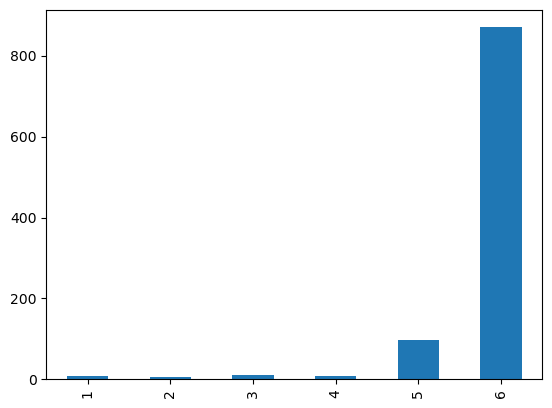
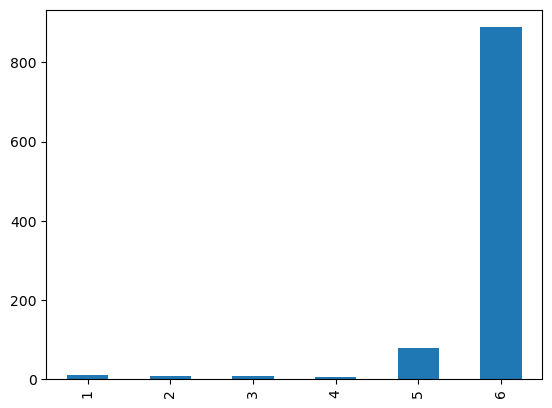
Removed .py file from book

diff --git a/docs/notebooks/M07_PythonClasses/M07-02-ClassesExample.html b/docs/notebooks/M07_PythonClasses/M07-02-ClassesExample.html
@@ -669,7 +669,7 @@ code span.wa { color: #60a0b0; font-weight: bold; font-style: italic; } /* Warni
 <p>Here’s an example of a class motivated by our earlier observation that functions come in groups.</p>
 <section id="set-up" class="level2">
 <h2 class="anchored" data-anchor-id="set-up">Set Up</h2>
-<div class="cell" data-tags="[]" data-execution_count="1">
+<div class="cell" data-tags="[]" data-execution_count="3">
 <div class="sourceCode cell-code" id="cb1"><pre class="sourceCode python code-with-copy"><code class="sourceCode python"><span id="cb1-1"><a href="#cb1-1" aria-hidden="true" tabindex="-1"></a><span class="im">import</span> pandas <span class="im">as</span> pd</span>
 <span id="cb1-2"><a href="#cb1-2" aria-hidden="true" tabindex="-1"></a><span class="im">import</span> numpy <span class="im">as</span> np</span></code><button title="Copy to Clipboard" class="code-copy-button"><i class="bi"></i></button></pre></div>
 </div>
@@ -679,7 +679,7 @@ code span.wa { color: #60a0b0; font-weight: bold; font-style: italic; } /* Warni
 <p>We define a set of functions that work in a sequence, where the return value of one is the argument of the other.</p>
 <section id="define-functions" class="level3">
 <h3 class="anchored" data-anchor-id="define-functions">Define Functions</h3>
-<div class="cell" data-tags="[]" data-execution_count="2">
+<div class="cell" data-tags="[]" data-execution_count="4">
 <div class="sourceCode cell-code" id="cb2"><pre class="sourceCode python code-with-copy"><code class="sourceCode python"><span id="cb2-1"><a href="#cb2-1" aria-hidden="true" tabindex="-1"></a><span class="kw">def</span> create_die(weights):</span>
 <span id="cb2-2"><a href="#cb2-2" aria-hidden="true" tabindex="-1"></a>    n_sides <span class="op">=</span> <span class="bu">len</span>(weights)</span>
 <span id="cb2-3"><a href="#cb2-3" aria-hidden="true" tabindex="-1"></a>    my_probs <span class="op">=</span> [i<span class="op">/</span><span class="bu">sum</span>(weights) <span class="cf">for</span> i <span class="kw">in</span> weights]</span>
@@ -702,15 +702,15 @@ code span.wa { color: #60a0b0; font-weight: bold; font-style: italic; } /* Warni
 </section>
 <section id="create-instances" class="level3">
 <h3 class="anchored" data-anchor-id="create-instances">Create Instances</h3>
-<div class="cell" data-execution_count="3">
+<div class="cell" data-execution_count="5">
 <div class="sourceCode cell-code" id="cb3"><pre class="sourceCode python code-with-copy"><code class="sourceCode python"><span id="cb3-1"><a href="#cb3-1" aria-hidden="true" tabindex="-1"></a>n_rolls <span class="op">=</span> <span class="dv">10</span></span></code><button title="Copy to Clipboard" class="code-copy-button"><i class="bi"></i></button></pre></div>
 </div>
-<div class="cell" data-execution_count="4">
+<div class="cell" data-execution_count="6">
 <div class="sourceCode cell-code" id="cb4"><pre class="sourceCode python code-with-copy"><code class="sourceCode python"><span id="cb4-1"><a href="#cb4-1" aria-hidden="true" tabindex="-1"></a>fair_die <span class="op">=</span> create_die([<span class="dv">1</span>,<span class="dv">1</span>,<span class="dv">1</span>,<span class="dv">1</span>,<span class="dv">1</span>,<span class="dv">1</span>,<span class="dv">1</span>])</span></code><button title="Copy to Clipboard" class="code-copy-button"><i class="bi"></i></button></pre></div>
 </div>
-<div class="cell" data-tags="[]" data-execution_count="5">
+<div class="cell" data-tags="[]" data-execution_count="7">
 <div class="sourceCode cell-code" id="cb5"><pre class="sourceCode python code-with-copy"><code class="sourceCode python"><span id="cb5-1"><a href="#cb5-1" aria-hidden="true" tabindex="-1"></a>fair_die</span></code><button title="Copy to Clipboard" class="code-copy-button"><i class="bi"></i></button></pre></div>
-<div class="cell-output cell-output-display" data-execution_count="5">
+<div class="cell-output cell-output-display" data-execution_count="7">
 
 <div>
 
@@ -763,32 +763,32 @@ code span.wa { color: #60a0b0; font-weight: bold; font-style: italic; } /* Warni
 </div>
 </div>
 </div>
-<div class="cell" data-execution_count="6">
+<div class="cell" data-execution_count="8">
 <div class="sourceCode cell-code" id="cb6"><pre class="sourceCode python code-with-copy"><code class="sourceCode python"><span id="cb6-1"><a href="#cb6-1" aria-hidden="true" tabindex="-1"></a>fair_results <span class="op">=</span> roll_dice(fair_die, n_rolls)</span></code><button title="Copy to Clipboard" class="code-copy-button"><i class="bi"></i></button></pre></div>
 </div>
-<div class="cell" data-execution_count="7">
+<div class="cell" data-execution_count="9">
 <div class="sourceCode cell-code" id="cb7"><pre class="sourceCode python code-with-copy"><code class="sourceCode python"><span id="cb7-1"><a href="#cb7-1" aria-hidden="true" tabindex="-1"></a>fair_results</span></code><button title="Copy to Clipboard" class="code-copy-button"><i class="bi"></i></button></pre></div>
-<div class="cell-output cell-output-display" data-execution_count="7">
-<pre><code>0    3
-1    5
-2    6
-3    3
-4    6
-5    3
-6    3
-7    7
-8    1
-9    5
+<div class="cell-output cell-output-display" data-execution_count="9">
+<pre><code>0    4
+1    1
+2    2
+3    6
+4    4
+5    6
+6    2
+7    2
+8    5
+9    2
 dtype: int64</code></pre>
 </div>
 </div>
-<div class="cell" data-execution_count="8">
+<div class="cell" data-execution_count="10">
 <div class="sourceCode cell-code" id="cb9"><pre class="sourceCode python code-with-copy"><code class="sourceCode python"><span id="cb9-1"><a href="#cb9-1" aria-hidden="true" tabindex="-1"></a>plot_results(fair_results)</span></code><button title="Copy to Clipboard" class="code-copy-button"><i class="bi"></i></button></pre></div>
 <div class="cell-output cell-output-display">
 <p><img src="M07-02-ClassesExample_files/figure-html/cell-9-output-1.png" class="img-fluid"></p>
 </div>
 </div>
-<div class="cell" data-execution_count="9">
+<div class="cell" data-execution_count="11">
 <div class="sourceCode cell-code" id="cb10"><pre class="sourceCode python code-with-copy"><code class="sourceCode python"><span id="cb10-1"><a href="#cb10-1" aria-hidden="true" tabindex="-1"></a>unfair_die <span class="op">=</span> create_die([<span class="dv">1</span>,<span class="dv">1</span>,<span class="dv">1</span>,<span class="dv">1</span>,<span class="dv">1</span>,<span class="dv">5</span>])</span>
 <span id="cb10-2"><a href="#cb10-2" aria-hidden="true" tabindex="-1"></a>unfair_results <span class="op">=</span> roll_dice(unfair_die, n_rolls)</span>
 <span id="cb10-3"><a href="#cb10-3" aria-hidden="true" tabindex="-1"></a>plot_results(unfair_results)</span></code><button title="Copy to Clipboard" class="code-copy-button"><i class="bi"></i></button></pre></div>
@@ -799,11 +799,11 @@ dtype: int64</code></pre>
 </section>
 <section id="doing-it-all-at-once" class="level3">
 <h3 class="anchored" data-anchor-id="doing-it-all-at-once">Doing it all at once</h3>
-<div class="cell" data-execution_count="10">
+<div class="cell" data-execution_count="12">
 <div class="sourceCode cell-code" id="cb11"><pre class="sourceCode python code-with-copy"><code class="sourceCode python"><span id="cb11-1"><a href="#cb11-1" aria-hidden="true" tabindex="-1"></a><span class="kw">def</span> do_it_all(weights):</span>
 <span id="cb11-2"><a href="#cb11-2" aria-hidden="true" tabindex="-1"></a>    plot_results(roll_dice(create_die(weights), n_rolls))</span></code><button title="Copy to Clipboard" class="code-copy-button"><i class="bi"></i></button></pre></div>
 </div>
-<div class="cell" data-execution_count="11">
+<div class="cell" data-execution_count="13">
 <div class="sourceCode cell-code" id="cb12"><pre class="sourceCode python code-with-copy"><code class="sourceCode python"><span id="cb12-1"><a href="#cb12-1" aria-hidden="true" tabindex="-1"></a>do_it_all(roll_dice(create_die([<span class="dv">1</span>,<span class="dv">1</span>,<span class="dv">1</span>,<span class="dv">1</span>,<span class="dv">1</span>,<span class="dv">10</span>]), n_rolls))</span></code><button title="Copy to Clipboard" class="code-copy-button"><i class="bi"></i></button></pre></div>
 <div class="cell-output cell-output-display">
 <p><img src="M07-02-ClassesExample_files/figure-html/cell-12-output-1.png" class="img-fluid"></p>
@@ -817,14 +817,14 @@ dtype: int64</code></pre>
 <h3 class="anchored" data-anchor-id="define-a-shared-data-structure">Define a Shared Data Structure</h3>
 <p>We create a dictionary called <code>config</code> to store our instance data.</p>
 <p>We’ll treat this as a <strong>global</strong>.</p>
-<div class="cell" data-execution_count="12">
+<div class="cell" data-execution_count="14">
 <div class="sourceCode cell-code" id="cb13"><pre class="sourceCode python code-with-copy"><code class="sourceCode python"><span id="cb13-1"><a href="#cb13-1" aria-hidden="true" tabindex="-1"></a>config <span class="op">=</span> {}</span>
 <span id="cb13-2"><a href="#cb13-2" aria-hidden="true" tabindex="-1"></a>n_rolls2 <span class="op">=</span> <span class="dv">10</span></span></code><button title="Copy to Clipboard" class="code-copy-button"><i class="bi"></i></button></pre></div>
 </div>
 </section>
 <section id="define-methods" class="level3">
 <h3 class="anchored" data-anchor-id="define-methods">Define Methods</h3>
-<div class="cell" data-execution_count="13">
+<div class="cell" data-execution_count="15">
 <div class="sourceCode cell-code" id="cb14"><pre class="sourceCode python code-with-copy"><code class="sourceCode python"><span id="cb14-1"><a href="#cb14-1" aria-hidden="true" tabindex="-1"></a><span class="kw">def</span> create_die2(die_id):</span>
 <span id="cb14-2"><a href="#cb14-2" aria-hidden="true" tabindex="-1"></a>    <span class="kw">global</span> config</span>
 <span id="cb14-3"><a href="#cb14-3" aria-hidden="true" tabindex="-1"></a>    config[die_id][<span class="st">'die'</span>] <span class="op">=</span> <span class="va">None</span></span>
@@ -866,7 +866,7 @@ dtype: int64</code></pre>
 <section id="populate-config" class="level3">
 <h3 class="anchored" data-anchor-id="populate-config">Populate Config</h3>
 <p>We populate our configuration config with some instances.</p>
-<div class="cell" data-execution_count="14">
+<div class="cell" data-execution_count="16">
 <div class="sourceCode cell-code" id="cb15"><pre class="sourceCode python code-with-copy"><code class="sourceCode python"><span id="cb15-1"><a href="#cb15-1" aria-hidden="true" tabindex="-1"></a>config <span class="op">=</span> {</span>
 <span id="cb15-2"><a href="#cb15-2" aria-hidden="true" tabindex="-1"></a>    <span class="st">'fair'</span>: {</span>
 <span id="cb15-3"><a href="#cb15-3" aria-hidden="true" tabindex="-1"></a>        <span class="st">'weights'</span>: [<span class="dv">1</span>,<span class="dv">1</span>,<span class="dv">1</span>,<span class="dv">1</span>,<span class="dv">1</span>,<span class="dv">1</span>]</span>
@@ -879,7 +879,7 @@ dtype: int64</code></pre>
 </section>
 <section id="call-main-function" class="level3">
 <h3 class="anchored" data-anchor-id="call-main-function">Call Main Function</h3>
-<div class="cell" data-execution_count="15">
+<div class="cell" data-execution_count="17">
 <div class="sourceCode cell-code" id="cb16"><pre class="sourceCode python code-with-copy"><code class="sourceCode python"><span id="cb16-1"><a href="#cb16-1" aria-hidden="true" tabindex="-1"></a>do_it_all2(<span class="st">'fair'</span>)</span></code><button title="Copy to Clipboard" class="code-copy-button"><i class="bi"></i></button></pre></div>
 <div class="cell-output cell-output-stdout">
 <pre><code>Die ID: fair
@@ -890,7 +890,7 @@ Rolls: 10</code></pre>
 <p><img src="M07-02-ClassesExample_files/figure-html/cell-16-output-2.png" class="img-fluid"></p>
 </div>
 </div>
-<div class="cell" data-execution_count="16">
+<div class="cell" data-execution_count="18">
 <div class="sourceCode cell-code" id="cb18"><pre class="sourceCode python code-with-copy"><code class="sourceCode python"><span id="cb18-1"><a href="#cb18-1" aria-hidden="true" tabindex="-1"></a>do_it_all2(<span class="st">'unfair'</span>)</span></code><button title="Copy to Clipboard" class="code-copy-button"><i class="bi"></i></button></pre></div>
 <div class="cell-output cell-output-stdout">
 <pre><code>Die ID: unfair
@@ -901,7 +901,7 @@ Rolls: 10</code></pre>
 <p><img src="M07-02-ClassesExample_files/figure-html/cell-17-output-2.png" class="img-fluid"></p>
 </div>
 </div>
-<div class="cell" data-execution_count="17">
+<div class="cell" data-execution_count="19">
 <div class="sourceCode cell-code" id="cb20"><pre class="sourceCode python code-with-copy"><code class="sourceCode python"><span id="cb20-1"><a href="#cb20-1" aria-hidden="true" tabindex="-1"></a>n_rolls2 <span class="op">=</span> <span class="dv">1000</span> <span class="co"># We change this, but it will affect all uses of the functions until we change it.</span></span>
 <span id="cb20-2"><a href="#cb20-2" aria-hidden="true" tabindex="-1"></a>do_it_all2(<span class="st">'unfair'</span>)</span></code><button title="Copy to Clipboard" class="code-copy-button"><i class="bi"></i></button></pre></div>
 <div class="cell-output cell-output-stdout">
@@ -918,48 +918,46 @@ Rolls: 1000</code></pre>
 <section id="method-3-as-class" class="level2">
 <h2 class="anchored" data-anchor-id="method-3-as-class">Method 3: As Class</h2>
 <p>Define a class that contains the config data structure and all the functions as attributes and methods.</p>
-<div class="cell" data-execution_count="18">
+<div class="cell" data-execution_count="20">
 <div class="sourceCode cell-code" id="cb22"><pre class="sourceCode python code-with-copy"><code class="sourceCode python"><span id="cb22-1"><a href="#cb22-1" aria-hidden="true" tabindex="-1"></a><span class="kw">class</span> DieGame():</span>
-<span id="cb22-2"><a href="#cb22-2" aria-hidden="true" tabindex="-1"></a>    </span>
-<span id="cb22-3"><a href="#cb22-3" aria-hidden="true" tabindex="-1"></a>    n_rolls <span class="op">=</span> <span class="dv">10</span></span>
-<span id="cb22-4"><a href="#cb22-4" aria-hidden="true" tabindex="-1"></a>    weights <span class="op">=</span> [<span class="dv">1</span>,<span class="dv">1</span>,<span class="dv">1</span>,<span class="dv">1</span>,<span class="dv">1</span>,<span class="dv">1</span>]</span>
-<span id="cb22-5"><a href="#cb22-5" aria-hidden="true" tabindex="-1"></a>    </span>
-<span id="cb22-6"><a href="#cb22-6" aria-hidden="true" tabindex="-1"></a>    <span class="kw">def</span> <span class="fu">__init__</span>(<span class="va">self</span>):</span>
-<span id="cb22-7"><a href="#cb22-7" aria-hidden="true" tabindex="-1"></a>        <span class="cf">return</span> <span class="va">None</span></span>
-<span id="cb22-8"><a href="#cb22-8" aria-hidden="true" tabindex="-1"></a>        </span>
-<span id="cb22-9"><a href="#cb22-9" aria-hidden="true" tabindex="-1"></a>    <span class="kw">def</span> create_die(<span class="va">self</span>):</span>
-<span id="cb22-10"><a href="#cb22-10" aria-hidden="true" tabindex="-1"></a>        <span class="va">self</span>.n_sides <span class="op">=</span> <span class="bu">len</span>(<span class="va">self</span>.weights)</span>
-<span id="cb22-11"><a href="#cb22-11" aria-hidden="true" tabindex="-1"></a>        <span class="va">self</span>.my_probs <span class="op">=</span> [i<span class="op">/</span><span class="bu">sum</span>(<span class="va">self</span>.weights) <span class="cf">for</span> i <span class="kw">in</span> <span class="va">self</span>.weights]</span>
-<span id="cb22-12"><a href="#cb22-12" aria-hidden="true" tabindex="-1"></a>        <span class="va">self</span>.die <span class="op">=</span> pd.DataFrame({</span>
-<span id="cb22-13"><a href="#cb22-13" aria-hidden="true" tabindex="-1"></a>            <span class="st">'side'</span>: <span class="bu">range</span>(<span class="dv">1</span>, <span class="va">self</span>.n_sides <span class="op">+</span> <span class="dv">1</span>),</span>
-<span id="cb22-14"><a href="#cb22-14" aria-hidden="true" tabindex="-1"></a>            <span class="st">'weights'</span>: <span class="va">self</span>.my_probs</span>
-<span id="cb22-15"><a href="#cb22-15" aria-hidden="true" tabindex="-1"></a>        })</span>
-<span id="cb22-16"><a href="#cb22-16" aria-hidden="true" tabindex="-1"></a>    </span>
-<span id="cb22-17"><a href="#cb22-17" aria-hidden="true" tabindex="-1"></a>    <span class="kw">def</span> roll_die(<span class="va">self</span>):</span>
-<span id="cb22-18"><a href="#cb22-18" aria-hidden="true" tabindex="-1"></a>        results <span class="op">=</span> []</span>
-<span id="cb22-19"><a href="#cb22-19" aria-hidden="true" tabindex="-1"></a>        <span class="cf">for</span> i <span class="kw">in</span> <span class="bu">range</span>(<span class="va">self</span>.n_rolls):</span>
-<span id="cb22-20"><a href="#cb22-20" aria-hidden="true" tabindex="-1"></a>            result <span class="op">=</span> <span class="va">self</span>.die.side.sample(weights<span class="op">=</span><span class="va">self</span>.die.weights).values[<span class="dv">0</span>]</span>
-<span id="cb22-21"><a href="#cb22-21" aria-hidden="true" tabindex="-1"></a>            results.append(result)</span>
-<span id="cb22-22"><a href="#cb22-22" aria-hidden="true" tabindex="-1"></a>        <span class="va">self</span>.results <span class="op">=</span> pd.Series(results)        </span>
-<span id="cb22-23"><a href="#cb22-23" aria-hidden="true" tabindex="-1"></a>        </span>
-<span id="cb22-24"><a href="#cb22-24" aria-hidden="true" tabindex="-1"></a>    <span class="kw">def</span> plot_results(<span class="va">self</span>):</span>
-<span id="cb22-25"><a href="#cb22-25" aria-hidden="true" tabindex="-1"></a>        prob_model <span class="op">=</span> pd.Series({i<span class="op">+</span><span class="dv">1</span>:<span class="bu">round</span>(p, <span class="dv">2</span>) <span class="cf">for</span> i, p <span class="kw">in</span> <span class="bu">enumerate</span>(<span class="va">self</span>.my_probs)})</span>
-<span id="cb22-26"><a href="#cb22-26" aria-hidden="true" tabindex="-1"></a>        <span class="bu">print</span>(<span class="st">"Sides:"</span>, <span class="va">self</span>.n_sides)</span>
-<span id="cb22-27"><a href="#cb22-27" aria-hidden="true" tabindex="-1"></a>        <span class="bu">print</span>(<span class="st">"Model:"</span>)</span>
-<span id="cb22-28"><a href="#cb22-28" aria-hidden="true" tabindex="-1"></a>        <span class="bu">print</span>(prob_model)</span>
-<span id="cb22-29"><a href="#cb22-29" aria-hidden="true" tabindex="-1"></a>        <span class="bu">print</span>(<span class="st">"Rolls:"</span>, <span class="va">self</span>.n_rolls)</span>
-<span id="cb22-30"><a href="#cb22-30" aria-hidden="true" tabindex="-1"></a>        <span class="va">self</span>.results.value_counts().sort_index().plot.bar(rot<span class="op">=</span><span class="dv">0</span>)<span class="op">;</span></span>
-<span id="cb22-31"><a href="#cb22-31" aria-hidden="true" tabindex="-1"></a>        </span>
-<span id="cb22-32"><a href="#cb22-32" aria-hidden="true" tabindex="-1"></a>    <span class="co"># We add another method because it's so easy :-)</span></span>
-<span id="cb22-33"><a href="#cb22-33" aria-hidden="true" tabindex="-1"></a>    <span class="kw">def</span> plot_probs(<span class="va">self</span>):</span>
-<span id="cb22-34"><a href="#cb22-34" aria-hidden="true" tabindex="-1"></a>        pd.Series(<span class="va">self</span>.my_probs).plot.pie(title<span class="op">=</span><span class="st">"Die Model"</span>)</span>
-<span id="cb22-35"><a href="#cb22-35" aria-hidden="true" tabindex="-1"></a>        </span>
-<span id="cb22-36"><a href="#cb22-36" aria-hidden="true" tabindex="-1"></a>    <span class="kw">def</span> do_it_all(<span class="va">self</span>):</span>
-<span id="cb22-37"><a href="#cb22-37" aria-hidden="true" tabindex="-1"></a>        <span class="va">self</span>.create_die()</span>
-<span id="cb22-38"><a href="#cb22-38" aria-hidden="true" tabindex="-1"></a>        <span class="va">self</span>.roll_die()</span>
-<span id="cb22-39"><a href="#cb22-39" aria-hidden="true" tabindex="-1"></a>        <span class="va">self</span>.plot_results()</span></code><button title="Copy to Clipboard" class="code-copy-button"><i class="bi"></i></button></pre></div>
+<span id="cb22-2"><a href="#cb22-2" aria-hidden="true" tabindex="-1"></a>        </span>
+<span id="cb22-3"><a href="#cb22-3" aria-hidden="true" tabindex="-1"></a>    <span class="kw">def</span> <span class="fu">__init__</span>(<span class="va">self</span>):</span>
+<span id="cb22-4"><a href="#cb22-4" aria-hidden="true" tabindex="-1"></a>        <span class="va">self</span>.n_rolls <span class="op">=</span> <span class="dv">10</span></span>
+<span id="cb22-5"><a href="#cb22-5" aria-hidden="true" tabindex="-1"></a>        <span class="va">self</span>.weights <span class="op">=</span> [<span class="dv">1</span>,<span class="dv">1</span>,<span class="dv">1</span>,<span class="dv">1</span>,<span class="dv">1</span>,<span class="dv">1</span>]</span>
+<span id="cb22-6"><a href="#cb22-6" aria-hidden="true" tabindex="-1"></a>        </span>
+<span id="cb22-7"><a href="#cb22-7" aria-hidden="true" tabindex="-1"></a>    <span class="kw">def</span> create_die(<span class="va">self</span>):</span>
+<span id="cb22-8"><a href="#cb22-8" aria-hidden="true" tabindex="-1"></a>        <span class="va">self</span>.n_sides <span class="op">=</span> <span class="bu">len</span>(<span class="va">self</span>.weights)</span>
+<span id="cb22-9"><a href="#cb22-9" aria-hidden="true" tabindex="-1"></a>        <span class="va">self</span>.my_probs <span class="op">=</span> [i<span class="op">/</span><span class="bu">sum</span>(<span class="va">self</span>.weights) <span class="cf">for</span> i <span class="kw">in</span> <span class="va">self</span>.weights]</span>
+<span id="cb22-10"><a href="#cb22-10" aria-hidden="true" tabindex="-1"></a>        <span class="va">self</span>.die <span class="op">=</span> pd.DataFrame({</span>
+<span id="cb22-11"><a href="#cb22-11" aria-hidden="true" tabindex="-1"></a>            <span class="st">'side'</span>: <span class="bu">range</span>(<span class="dv">1</span>, <span class="va">self</span>.n_sides <span class="op">+</span> <span class="dv">1</span>),</span>
+<span id="cb22-12"><a href="#cb22-12" aria-hidden="true" tabindex="-1"></a>            <span class="st">'weights'</span>: <span class="va">self</span>.my_probs</span>
+<span id="cb22-13"><a href="#cb22-13" aria-hidden="true" tabindex="-1"></a>        })</span>
+<span id="cb22-14"><a href="#cb22-14" aria-hidden="true" tabindex="-1"></a>    </span>
+<span id="cb22-15"><a href="#cb22-15" aria-hidden="true" tabindex="-1"></a>    <span class="kw">def</span> roll_die(<span class="va">self</span>):</span>
+<span id="cb22-16"><a href="#cb22-16" aria-hidden="true" tabindex="-1"></a>        results <span class="op">=</span> []</span>
+<span id="cb22-17"><a href="#cb22-17" aria-hidden="true" tabindex="-1"></a>        <span class="cf">for</span> i <span class="kw">in</span> <span class="bu">range</span>(<span class="va">self</span>.n_rolls):</span>
+<span id="cb22-18"><a href="#cb22-18" aria-hidden="true" tabindex="-1"></a>            result <span class="op">=</span> <span class="va">self</span>.die.side.sample(weights<span class="op">=</span><span class="va">self</span>.die.weights).values[<span class="dv">0</span>]</span>
+<span id="cb22-19"><a href="#cb22-19" aria-hidden="true" tabindex="-1"></a>            results.append(result)</span>
+<span id="cb22-20"><a href="#cb22-20" aria-hidden="true" tabindex="-1"></a>        <span class="va">self</span>.results <span class="op">=</span> pd.Series(results)        </span>
+<span id="cb22-21"><a href="#cb22-21" aria-hidden="true" tabindex="-1"></a>        </span>
+<span id="cb22-22"><a href="#cb22-22" aria-hidden="true" tabindex="-1"></a>    <span class="kw">def</span> plot_results(<span class="va">self</span>):</span>
+<span id="cb22-23"><a href="#cb22-23" aria-hidden="true" tabindex="-1"></a>        prob_model <span class="op">=</span> pd.Series({i<span class="op">+</span><span class="dv">1</span>:<span class="bu">round</span>(p, <span class="dv">2</span>) <span class="cf">for</span> i, p <span class="kw">in</span> <span class="bu">enumerate</span>(<span class="va">self</span>.my_probs)})</span>
+<span id="cb22-24"><a href="#cb22-24" aria-hidden="true" tabindex="-1"></a>        <span class="bu">print</span>(<span class="st">"Sides:"</span>, <span class="va">self</span>.n_sides)</span>
+<span id="cb22-25"><a href="#cb22-25" aria-hidden="true" tabindex="-1"></a>        <span class="bu">print</span>(<span class="st">"Model:"</span>)</span>
+<span id="cb22-26"><a href="#cb22-26" aria-hidden="true" tabindex="-1"></a>        <span class="bu">print</span>(prob_model)</span>
+<span id="cb22-27"><a href="#cb22-27" aria-hidden="true" tabindex="-1"></a>        <span class="bu">print</span>(<span class="st">"Rolls:"</span>, <span class="va">self</span>.n_rolls)</span>
+<span id="cb22-28"><a href="#cb22-28" aria-hidden="true" tabindex="-1"></a>        <span class="va">self</span>.results.value_counts().sort_index().plot.bar(rot<span class="op">=</span><span class="dv">0</span>)<span class="op">;</span></span>
+<span id="cb22-29"><a href="#cb22-29" aria-hidden="true" tabindex="-1"></a>        </span>
+<span id="cb22-30"><a href="#cb22-30" aria-hidden="true" tabindex="-1"></a>    <span class="co"># We add another method because it's so easy :-)</span></span>
+<span id="cb22-31"><a href="#cb22-31" aria-hidden="true" tabindex="-1"></a>    <span class="kw">def</span> plot_probs(<span class="va">self</span>):</span>
+<span id="cb22-32"><a href="#cb22-32" aria-hidden="true" tabindex="-1"></a>        pd.Series(<span class="va">self</span>.my_probs).plot.pie(title<span class="op">=</span><span class="st">"Die Model"</span>)</span>
+<span id="cb22-33"><a href="#cb22-33" aria-hidden="true" tabindex="-1"></a>        </span>
+<span id="cb22-34"><a href="#cb22-34" aria-hidden="true" tabindex="-1"></a>    <span class="kw">def</span> do_it_all(<span class="va">self</span>):</span>
+<span id="cb22-35"><a href="#cb22-35" aria-hidden="true" tabindex="-1"></a>        <span class="va">self</span>.create_die()</span>
+<span id="cb22-36"><a href="#cb22-36" aria-hidden="true" tabindex="-1"></a>        <span class="va">self</span>.roll_die()</span>
+<span id="cb22-37"><a href="#cb22-37" aria-hidden="true" tabindex="-1"></a>        <span class="va">self</span>.plot_results()</span></code><button title="Copy to Clipboard" class="code-copy-button"><i class="bi"></i></button></pre></div>
 </div>
-<div class="cell" data-execution_count="19">
+<div class="cell" data-execution_count="22">
 <div class="sourceCode cell-code" id="cb23"><pre class="sourceCode python code-with-copy"><code class="sourceCode python"><span id="cb23-1"><a href="#cb23-1" aria-hidden="true" tabindex="-1"></a>game_1 <span class="op">=</span> DieGame()</span>
 <span id="cb23-2"><a href="#cb23-2" aria-hidden="true" tabindex="-1"></a>game_1.n_rolls <span class="op">=</span> <span class="dv">100</span></span>
 <span id="cb23-3"><a href="#cb23-3" aria-hidden="true" tabindex="-1"></a>game_1.do_it_all()</span></code><button title="Copy to Clipboard" class="code-copy-button"><i class="bi"></i></button></pre></div>
@@ -979,13 +977,13 @@ Rolls: 100</code></pre>
 <p><img src="M07-02-ClassesExample_files/figure-html/cell-20-output-2.png" class="img-fluid"></p>
 </div>
 </div>
-<div class="cell" data-execution_count="20">
+<div class="cell" data-execution_count="23">
 <div class="sourceCode cell-code" id="cb25"><pre class="sourceCode python code-with-copy"><code class="sourceCode python"><span id="cb25-1"><a href="#cb25-1" aria-hidden="true" tabindex="-1"></a>game_1.plot_probs()</span></code><button title="Copy to Clipboard" class="code-copy-button"><i class="bi"></i></button></pre></div>
 <div class="cell-output cell-output-display">
 <p><img src="M07-02-ClassesExample_files/figure-html/cell-21-output-1.png" class="img-fluid"></p>
 </div>
 </div>
-<div class="cell" data-execution_count="21">
+<div class="cell" data-execution_count="24">
 <div class="sourceCode cell-code" id="cb26"><pre class="sourceCode python code-with-copy"><code class="sourceCode python"><span id="cb26-1"><a href="#cb26-1" aria-hidden="true" tabindex="-1"></a>game_2 <span class="op">=</span> DieGame()</span>
 <span id="cb26-2"><a href="#cb26-2" aria-hidden="true" tabindex="-1"></a>game_2.n_rolls <span class="op">=</span> <span class="dv">100</span></span>
 <span id="cb26-3"><a href="#cb26-3" aria-hidden="true" tabindex="-1"></a>game_2.weights <span class="op">=</span> [<span class="dv">1</span>,<span class="dv">1</span>,<span class="dv">1</span>,<span class="dv">5</span>,<span class="dv">10</span>,<span class="dv">10</span>]</span>
@@ -1006,7 +1004,7 @@ Rolls: 100</code></pre>
 <p><img src="M07-02-ClassesExample_files/figure-html/cell-22-output-2.png" class="img-fluid"></p>
 </div>
 </div>
-<div class="cell" data-execution_count="22">
+<div class="cell" data-execution_count="25">
 <div class="sourceCode cell-code" id="cb28"><pre class="sourceCode python code-with-copy"><code class="sourceCode python"><span id="cb28-1"><a href="#cb28-1" aria-hidden="true" tabindex="-1"></a>game_2.plot_probs()</span></code><button title="Copy to Clipboard" class="code-copy-button"><i class="bi"></i></button></pre></div>
 <div class="cell-output cell-output-display">
 <p><img src="M07-02-ClassesExample_files/figure-html/cell-23-output-1.png" class="img-fluid"></p>

diff --git a/docs/notebooks/M07_PythonClasses/M07-04-ClassAttributeWeirdness.html b/docs/notebooks/M07_PythonClasses/M07-04-ClassAttributeWeirdness.html
@@ -738,7 +738,7 @@ code span.wa { color: #60a0b0; font-weight: bold; font-style: italic; } /* Warni
 <span id="cb18-10"><a href="#cb18-10" aria-hidden="true" tabindex="-1"></a>        <span class="va">self</span>.bar.append(<span class="dv">1</span>)  </span>
 <span id="cb18-11"><a href="#cb18-11" aria-hidden="true" tabindex="-1"></a>        </span>
 <span id="cb18-12"><a href="#cb18-12" aria-hidden="true" tabindex="-1"></a>    <span class="kw">def</span> replace_bar(<span class="va">self</span>, new_list <span class="op">=</span> []):</span>
-<span id="cb18-13"><a href="#cb18-13" aria-hidden="true" tabindex="-1"></a>        <span class="co">"A method to redefined the class list attribute."</span></span>
+<span id="cb18-13"><a href="#cb18-13" aria-hidden="true" tabindex="-1"></a>        <span class="co">"A method to redefine the class list attribute."</span></span>
 <span id="cb18-14"><a href="#cb18-14" aria-hidden="true" tabindex="-1"></a>        <span class="va">self</span>.bar <span class="op">=</span> new_list </span>
 <span id="cb18-15"><a href="#cb18-15" aria-hidden="true" tabindex="-1"></a>        </span>
 <span id="cb18-16"><a href="#cb18-16" aria-hidden="true" tabindex="-1"></a>    <span class="kw">def</span> compare_states(<span class="va">self</span>):</span>
@@ -853,7 +853,7 @@ c.bar = [1, 1]</code></pre>
 </div>
 </div>
 <p>The new instance has the original value of <code>foo</code>.</p>
-<p>However, notice it starts of with the modified value of <code>bar</code> before it was replaced.</p>
+<p>However, notice it starts off with the modified value of <code>bar</code> before it was replaced.</p>
 <p>We do it a few more times to drive the point home.</p>
 <div class="cell" data-execution_count="24">
 <div class="sourceCode cell-code" id="cb34"><pre class="sourceCode python code-with-copy"><code class="sourceCode python"><span id="cb34-1"><a href="#cb34-1" aria-hidden="true" tabindex="-1"></a><span class="cf">for</span> i <span class="kw">in</span> <span class="bu">range</span>(<span class="dv">5</span>):</span>

diff --git a/docs/notebooks/M07_PythonClasses/M07-05-Example.html b/docs/notebooks/M07_PythonClasses/M07-05-Example.html
@@ -646,10 +646,10 @@ code span.wa { color: #60a0b0; font-weight: bold; font-style: italic; } /* Warni
 <p>Then we call it from within our notebook.</p>
 <p>This is normal practice – <strong>class files cannot reside in notebooks if they are to be used by other code!</strong></p>
 <p>Open the file <code>diegame.py</code> in the course repo to inspect the code.</p>
-<div class="cell" data-execution_count="11">
+<div class="cell" data-execution_count="1">
 <div class="sourceCode cell-code" id="cb1"><pre class="sourceCode python code-with-copy"><code class="sourceCode python"><span id="cb1-1"><a href="#cb1-1" aria-hidden="true" tabindex="-1"></a><span class="im">from</span> diegame <span class="im">import</span> DieGame</span></code><button title="Copy to Clipboard" class="code-copy-button"><i class="bi"></i></button></pre></div>
 </div>
-<div class="cell" data-execution_count="10">
+<div class="cell" data-execution_count="2">
 <div class="sourceCode cell-code" id="cb2"><pre class="sourceCode python code-with-copy"><code class="sourceCode python"><span id="cb2-1"><a href="#cb2-1" aria-hidden="true" tabindex="-1"></a>dg1 <span class="op">=</span> DieGame()</span>
 <span id="cb2-2"><a href="#cb2-2" aria-hidden="true" tabindex="-1"></a>dg2 <span class="op">=</span> DieGame()</span></code><button title="Copy to Clipboard" class="code-copy-button"><i class="bi"></i></button></pre></div>
 </div>

diff --git a/docs/modules/m09/m09-intro.html b/docs/modules/m09/m09-intro.html
@@ -31,7 +31,7 @@ ul.task-list li input[type="checkbox"] {
 <script src="../../site_libs/quarto-search/quarto-search.js"></script>
 <meta name="quarto:offset" content="../../">
 <link href="../../notebooks/M09_PythonModules/M09-01-PackagesIntro.html" rel="next">
-<link href="../../notebooks/M08_PythonTesting/M08-02-script1.py" rel="prev">
+<link href="../../notebooks/M08_PythonTesting/M08-02-PythonUnitTesting.html" rel="prev">
 <script src="../../site_libs/quarto-html/quarto.js"></script>
 <script src="../../site_libs/quarto-html/popper.min.js"></script>
 <script src="../../site_libs/quarto-html/tippy.umd.min.js"></script>
@@ -766,8 +766,8 @@ window.document.addEventListener("DOMContentLoaded", function (event) {
 </script>
 <nav class="page-navigation">
   <div class="nav-page nav-page-previous">
-      <a href="../../notebooks/M08_PythonTesting/M08-02-script1.py" class="pagination-link">
-        <i class="bi bi-arrow-left-short"></i> <span class="nav-page-text"></span>
+      <a href="../../notebooks/M08_PythonTesting/M08-02-PythonUnitTesting.html" class="pagination-link">
+        <i class="bi bi-arrow-left-short"></i> <span class="nav-page-text"><span class="chapter-title">NB: Unit Testing with Unittest</span></span>
       </a>          
   </div>
   <div class="nav-page nav-page-next">

diff --git a/docs/notebooks/M08_PythonTesting/M08-02-PythonUnitTesting.html b/docs/notebooks/M08_PythonTesting/M08-02-PythonUnitTesting.html
@@ -93,7 +93,7 @@ code span.wa { color: #60a0b0; font-weight: bold; font-style: italic; } /* Warni
 <script src="../../site_libs/quarto-search/fuse.min.js"></script>
 <script src="../../site_libs/quarto-search/quarto-search.js"></script>
 <meta name="quarto:offset" content="../../">
-<link href="../../notebooks/M08_PythonTesting/M08-02-script1.py" rel="next">
+<link href="../../modules/m09/m09-intro.html" rel="next">
 <link href="../../notebooks/M08_PythonTesting/M08-01-ExceptionHandling.html" rel="prev">
 <script src="../../site_libs/quarto-html/quarto.js"></script>
 <script src="../../site_libs/quarto-html/popper.min.js"></script>
@@ -1204,8 +1204,8 @@ window.document.addEventListener("DOMContentLoaded", function (event) {
       </a>          
   </div>
   <div class="nav-page nav-page-next">
-      <a href="../../notebooks/M08_PythonTesting/M08-02-script1.py" class="pagination-link">
-        <span class="nav-page-text"></span> <i class="bi bi-arrow-right-short"></i>
+      <a href="../../modules/m09/m09-intro.html" class="pagination-link">
+        <span class="nav-page-text">M09 Modules</span> <i class="bi bi-arrow-right-short"></i>
       </a>
   </div>
 </nav>

diff --git a/docs/notebooks/M07_PythonClasses/M07-03-MoreOnClasses.html b/docs/notebooks/M07_PythonClasses/M07-03-MoreOnClasses.html
@@ -657,11 +657,11 @@ code span.wa { color: #60a0b0; font-weight: bold; font-style: italic; } /* Warni
 <ul>
 <li>You can put your classes in a .py file and import them into your other scripts.</li>
 <li>You can put more than one class in a file.</li>
-<li>Class names are usuall CamelCase, but not instances</li>
+<li>Class names are usuall CamelCase, but not instances.</li>
 <li>When saving to a file:
 <ul>
-<li>If only one class, use a lower case name of the class</li>
-<li>If more than one, use a package name, one that stands for the logical group the classes belong to</li>
+<li>If only one class, use a lower case name of the class in the file name.</li>
+<li>If more than one, use a package name, one that stands for the logical group the classes belong to.</li>
 </ul></li>
 </ul>
 </section>
